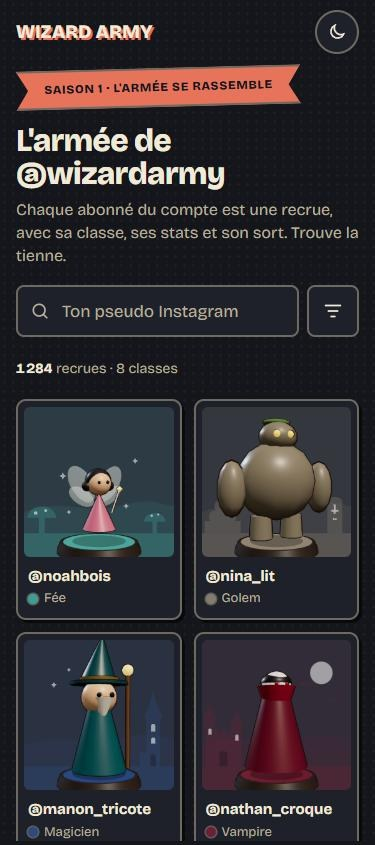
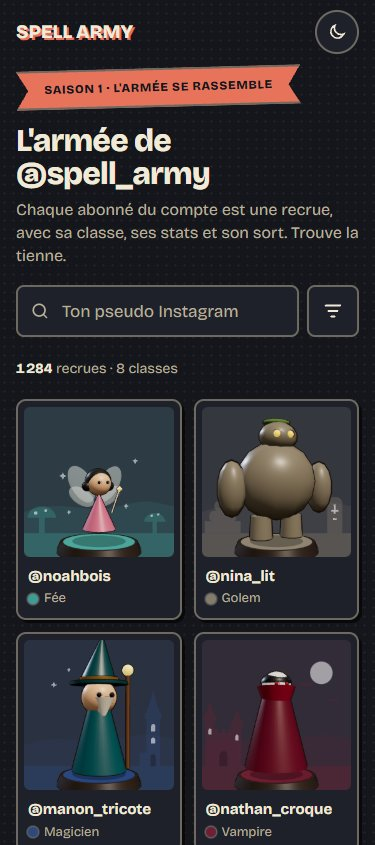
docs(renommage): nomme Spell Army dans la doc, les sources de vérité et les captures

diff --git a/docs/adr/0004-environnements-domaine-et-securite.md b/docs/adr/0004-environnements-domaine-et-securite.md
@@ -1,6 +1,6 @@
 # ADR 0004 — Environnements, domaine et sécurité
 
-- **Statut** : accepté le 2026-11-15. Précisé le 2026-11-22 : la ligne « Saisie » nomme `WIKI_DATABASE_URL`, secret de lecture du wiki (#43). Précisé le 2026-11-23 : domaine `spellarmy.com`.
+- **Statut** : accepté le 2026-11-15. Précisé le 2026-11-22 : la ligne « Saisie » nomme `WIKI_DATABASE_URL`, secret de lecture du wiki (#43). Précisé le 2026-11-23 : domaine `spellarmy.com`. Précisé le 2026-11-25 : team Vercel « Spell Army », slug `spell-army`, et projet Neon `spell-army-prod` (#57).
 - **Source** : `docs/etudes/00-cadrage.md` § 1 et § 2 « Architecture » ; étude
   `08-securite-cloudflare-vercel.md`
 
@@ -11,7 +11,7 @@
 | Sujet | Décision | Origine |
 |---|---|---|
 | Deux environnements publics | La pré-prod montre les personnages issus des abonnés du compte personnel du mainteneur et renvoie vers ce compte. La prod montre ceux du compte dédié. | Décidé (cadrage) |
-| Deux projets Vercel | Un même dépôt alimente deux projets de la team « Wizard Army » (Hobby). Chacun a son domaine de production public, ses variables, sa base Neon et ses tâches planifiées. Le projet de pré-prod suit `main`. Le projet de prod suit une branche `prod`, que le mainteneur avance pour livrer. | Accepté le 2026-11-15 |
+| Deux projets Vercel | Un même dépôt alimente deux projets de la team « Spell Army » (slug `spell-army`, Hobby). Chacun a son domaine de production public, ses variables, sa base Neon et ses tâches planifiées. Le projet de pré-prod suit `main`. Le projet de prod suit une branche `prod`, que le mainteneur avance pour livrer. | Accepté le 2026-11-15 |
 | Bandeau bêta | La pré-prod affiche un bandeau « bêta ». Il est piloté par une variable d'environnement, pas par du code propre à chaque environnement. | Décidé (cadrage) |
 
 Avec un seul projet et un domaine de branche, ce domaine aurait été protégé par défaut (il aurait fallu
@@ -49,7 +49,7 @@ Tous les leviers du plan gratuit sont activés (cadrage, Décidé) :
 | Authentification MCP | Jeton fixe en v1, pour le seul poste du mainteneur ; OAuth plus tard. Jeton aléatoire d'au moins 32 octets, comparé en temps constant, stocké en variable *Sensitive*, un par environnement. | Décidé (cadrage) |
 | Durcissement MCP | Validation Zod stricte, journal d'audit, pas de SQL libre, confirmation sur les outils destructeurs. | Accepté le 2026-11-15 |
 | Secrets | Tout ce qui est sensible (jetons, mots de passe, codes de récupération) vit dans KeePassXC, qui fait référence. Aucun secret dans le dépôt, une issue ou une conversation. En fin de projet, la base est sauvegardée sur un disque externe. | Décidé (cadrage) |
-| Saisie | Le mainteneur crée et saisit lui-même les secrets : `CRON_SECRET`, jeton MCP, clé HikerAPI et chaînes Neon dans les réglages Vercel ; `CRON_SECRET` aussi dans les secrets GitHub Actions (filet de l'ADR 0002) ; `WIKI_DATABASE_URL` dans les secrets GitHub Actions, chaîne du rôle `wiki_lecture`, en lecture sur la seule table `spells` de `wa-prod` (publication du wiki). | Accepté le 2026-11-15 |
+| Saisie | Le mainteneur crée et saisit lui-même les secrets : `CRON_SECRET`, jeton MCP, clé HikerAPI et chaînes Neon dans les réglages Vercel ; `CRON_SECRET` aussi dans les secrets GitHub Actions (filet de l'ADR 0002) ; `WIKI_DATABASE_URL` dans les secrets GitHub Actions, chaîne du rôle `wiki_lecture`, en lecture sur la seule table `spells` de `spell-army-prod` (publication du wiki). | Accepté le 2026-11-15 |
 | Récupération Neon | Neon ne fournit pas de codes de récupération : l'accès repose sur la sauvegarde de l'application d'authentification, qui est notée dans KeePassXC. | Accepté le 2026-11-15 |
 | Accès de Claude à Neon | Seule l'entrée MCP locale en lecture seule sert. Le connecteur Neon de Claude est en écriture et renvoie les chaînes de connexion : ses outils qui exposent ou créent un secret (chaîne de connexion, mot de passe, identifiant) ne sont jamais appelés. | Accepté le 2026-11-15 |
 

diff --git a/docs/exploitation.md b/docs/exploitation.md
@@ -101,7 +101,7 @@ avec Claude : chaque étape qui le touche se fait dans son propre terminal.
 
    ```bash
    read -rsp "Jeton MCP : " JETON_MCP; echo
-   claude mcp add --transport http wizard-army http://127.0.0.1:3000/api/mcp --header "Authorization: Bearer $JETON_MCP"
+   claude mcp add --transport http spell-army http://127.0.0.1:3000/api/mcp --header "Authorization: Bearer $JETON_MCP"
    unset JETON_MCP
    ```
 
@@ -120,9 +120,9 @@ avec Claude : chaque étape qui le touche se fait dans son propre terminal.
    `claude mcp add` les masque (`[REDACTED]`), `claude mcp list` ne les affiche pas. Ces règles
    ferment les lectures habituelles, pas un script qui ouvrirait le fichier.
 
-5. **Vérifier** par `claude mcp list`, qui doit montrer `wizard-army` connecté ; jamais par
+5. **Vérifier** par `claude mcp list`, qui doit montrer `spell-army` connecté ; jamais par
    `claude mcp get`, qui afficherait le jeton. Puis, dans une nouvelle session, en CLI ou dans
-   l'onglet Code de l'app de bureau, `/mcp` doit lister `wizard-army` connecté, avec ses outils :
+   l'onglet Code de l'app de bureau, `/mcp` doit lister `spell-army` connecté, avec ses outils :
    une session déjà ouverte ne voit pas un serveur ajouté après son démarrage. Si le serveur était
    éteint au démarrage de la session, « Reconnect » dans `/mcp` une fois le serveur lancé.
 
@@ -286,9 +286,9 @@ ou incomplet — les deux derniers nommés —, ou que le dossier n'est pas vide
 ### Publication
 
 Le workflow `.github/workflows/wiki.yml` régénère le wiki et le pousse sur
-`wizard-army-v2.wiki.git` : à chaque merge sur `main` qui touche une de ses sources
+`spell-army.wiki.git` : à chaque merge sur `main` qui touche une de ses sources
 (`.claude/pipeline.config.md`, « Documentation dérivée »), chaque nuit, et à la demande
-(`gh workflow run wiki.yml`). Il lit `wa-prod` par le secret Actions `WIKI_DATABASE_URL`, rôle
+(`gh workflow run wiki.yml`). Il lit `spell-army-prod` par le secret Actions `WIKI_DATABASE_URL`, rôle
 `wiki_lecture` (ADR 0004, « Saisie »), et pousse avec le jeton automatique du workflow. Rien n'est
 commité quand les pages n'ont pas changé. Une page modifiée à la main dans le wiki est écrasée à
 la publication suivante. GitHub désactive un workflow planifié dans un dépôt public resté 60 jours
@@ -302,7 +302,7 @@ Un run en échec :
 
 - clone refusé (« repository not found ») : le dépôt wiki n'existe qu'après une première page
   créée dans l'interface de GitHub ; la créer, puis relancer ;
-- table `spells` absente : appliquer les migrations à `wa-prod` (`migration`, chaîne du
+- table `spells` absente : appliquer les migrations à `spell-army-prod` (`migration`, chaîne du
   propriétaire dans le shell) ;
 - droit refusé : `GRANT SELECT ON public.spells TO wiki_lecture;`, en propriétaire ;
 - push refusé : le jeton automatique ne peut pas écrire le wiki ; le mainteneur crée un jeton fin

diff --git a/docs/etudes/04-architecture.md b/docs/etudes/04-architecture.md
@@ -1,4 +1,4 @@
-# 04 — Architecture cible de Wizard Army (matière d'ADR)
+# 04 — Architecture cible de Spell Army (matière d'ADR)
 
 Date : 2026-11-11. **[V]** = vérifié dans la doc en ligne ce jour ; **[S]** = supposé, à vérifier.
 
@@ -14,7 +14,7 @@ Date : 2026-11-11. **[V]** = vérifié dans la doc en ligne ce jour ; **[S]** = 
 
 Lus : `CLAUDE.md`, `.mcp.json`, ADR 0002, 0003, 0004, 0005, 0007, 0008, 0014, 0022, 0027 (et la liste des 29), `infra/`, workflows.
 
-| Existant [V] | Pour Wizard Army |
+| Existant [V] | Pour Spell Army |
 |---|---|
 | Cloudflare : registrar de `pacome.dev`, DNS, R2 (bucket `backups`), Tunnel/Access/WAF | **Repris** : DNS seul et R2. **Laissé** : Tunnel, Access, proxy. |
 | Sentry SaaS Developer, organisation UE, erreurs seules, sans données personnelles (ADR 0027) | **Repris** (nouveau projet ; création effective de l'organisation à confirmer). |
@@ -35,7 +35,7 @@ Le Portfolio ne contient **aucune trace de Vercel, Neon ni Supabase** ; son MCP 
 |---|---|---|---|
 | Framework | **Next.js 16.x** (Context7 liste 16.4.x [V]) ; modale R3F en composant client chargé à la demande | Vite + API ; Astro | Un déploiement pour tout ; découvre Fluid compute, cache/ISR, previews. |
 | Structure | **pnpm workspaces** : `engine` (TS pur, seedé), `db` (schéma Drizzle + services), `apps/web`. Phase 2 : `apps/video` (Remotion) importe les types du journal depuis `engine`. | Dépôt simple ; + Turborepo | Le minimum anti-refonte : moteur et format du journal sont des paquets. Vercel gère pnpm et saute les builds inchangés [V]. Turborepo à l'arrivée de la 2ᵉ app. |
-| Base | **Neon, 2 projets : `wa-preprod`, `wa-prod`** | Supabase ; Postgres du VPS | §3 bis. Env vars par environnement, `DATABASE_URL` poolée + `_UNPOOLED` [V]. |
+| Base | **Neon, 2 projets : `spell-army-preprod`, `spell-army-prod`** | Supabase ; Postgres du VPS | §3 bis. Env vars par environnement, `DATABASE_URL` poolée + `_UNPOOLED` [V]. |
 | ORM | **Drizzle** | Prisma ; driver Neon nu | Léger, proche du SQL, sans moteur binaire [S]. |
 | MCP | **`mcp-handler` 2.x** dans `app/api/mcp/route.ts` [V], Streamable HTTP sans état | Projet séparé ; xmcp | Une route suffit à cette échelle. |
 | Auth MCP | **v1 : bearer** ; **v2 : OAuth** (WorkOS AuthKit ou Clerk, un seul utilisateur) | OAuth d'emblée | §3 ter. |
@@ -111,7 +111,7 @@ Vercel **déconseille** un reverse proxy devant ses déploiements [V] et fournit
           +-----------+-----------------------------------------+--------------------+
                       | DATABASE_URL (par environnement)        | API externe (étudiée ailleurs)
                       v
-       Neon : wa-prod | wa-preprod
+       Neon : spell-army-prod | spell-army-preprod
  Sentry (erreurs) · healthchecks.io (fin de job) · GitHub Actions (CI, dump hebdo -> R2 chiffré)
  Phase 2 : apps/video (Remotion) lit le journal ; rendu Sandbox ou dédié ; sortie -> Blob
 ```

diff --git a/docs/adr/0001-architecture-applicative.md b/docs/adr/0001-architecture-applicative.md
@@ -1,7 +1,8 @@
 # ADR 0001 — Architecture applicative : Next.js sur Vercel, MCP intégré, Neon, paquets par domaine
 
 - **Statut** : accepté le 2026-11-15. Précisé le 2026-11-21 : `packages/joueurs` dépend aussi de
-  `personnages` (§ « Paquets », issue #13).
+  `personnages` (§ « Paquets », issue #13). Précisé le 2026-11-25 : projets Neon `spell-army-preprod`
+  et `spell-army-prod`, renommés avec le jeu (#57).
 - **Source** : `docs/etudes/00-cadrage.md` § 2 « Architecture » ; étude `04-architecture.md`
 
 ## Contexte
@@ -18,7 +19,7 @@ possible, « pour y voir clair ».
 | Hébergement | Next.js (App Router) sur Vercel. Une même application porte le site, le serveur MCP et la route des tâches planifiées. Il y a un projet Vercel par environnement (ADR 0004). | Décidé (cadrage) |
 | Plan Vercel | Hobby tant qu'on n'est pas bloqué, puis Pro. Pro au plus tard au premier partenariat rémunéré, car Hobby est réservé à l'usage personnel et non commercial. | Décidé (cadrage) |
 | Back-office | Aucun. Un serveur MCP le remplace : il est servi par l'application à `/api/mcp` et piloté depuis Claude. | Décidé (cadrage) |
-| Base | Neon (Postgres), un projet par environnement (`wa-preprod`, `wa-prod`), accès par Drizzle. | Décidé (cadrage) |
+| Base | Neon (Postgres), un projet par environnement (`spell-army-preprod`, `spell-army-prod`), accès par Drizzle. | Décidé (cadrage) |
 | Région | Neon à Francfort (`aws-eu-central-1`). Les fonctions Vercel sont fixées en `fra1` par `"regions": ["fra1"]` dans `vercel.json`, au lieu de `iad1` par défaut. | Accepté le 2026-11-15 |
 | Découpage | Un monorepo pnpm avec un paquet par domaine, aux chemins de `.claude/pipeline.config.md` § « Périmètre » (détail ci-dessous). | Accepté le 2026-11-15 |
 | Services partagés | Chaque paquet de domaine expose ses services. Les outils MCP, la route des tâches et les pages les appellent ; il n'y a pas d'autre chemin d'écriture, ni de REST d'administration. Un outil MCP reste un adaptateur mince : validation Zod, journal d'audit, appel d'un service. | Accepté le 2026-11-15 |
@@ -45,8 +46,8 @@ cycle n'est permis. Le paquet d'affichage 3D, commun au site et à la vidéo, n'
   résultat est le même.
 - Pour quitter Vercel, on réécrit `apps/web` et la planification ; les paquets ne bougent pas.
 - Chez Neon, la région ne se change pas après création. Le projet vide `my-first-project`, créé
-  d'office à Francfort en Postgres 18, est renommé `wa-preprod`, et `wa-prod` est créé dans la même
-  région. Le mainteneur le fait dans la console Neon.
+  d'office à Francfort en Postgres 18, est renommé `spell-army-preprod`, et `spell-army-prod` est
+  créé dans la même région. Le mainteneur le fait dans la console Neon.
 - Sur Hobby, une seule région de fonctions est permise : ce sera `fra1`.
 
 ## Vérifié

diff --git a/.claude/pipeline.config.md b/.claude/pipeline.config.md
@@ -1,7 +1,7 @@
 # Configuration pipeline
 
 ## Dépôt GitHub
-- repo : `plecart/wizard-army-v2`
+- repo : `plecart/spell-army`
 - branche trunk : `main`
 
 ## Sources de vérité
@@ -31,7 +31,7 @@ un écart entre elle et une source n'est jamais une contradiction `decisions-vs-
 
 | Documentation | Sources | Commande | Publication |
 |---|---|---|---|
-| wiki GitHub (`wizard-army-v2.wiki.git`) : accueil, classes, sorts tirables, combat | `docs/etudes/00-cadrage.md` § 1 ; `docs/game-design.md` § 2 et § 4 ; classes et plages (`packages/personnages/src/`) ; libellés des classes (`apps/web/app/annuaire/address.ts`) ; modèle et validation des sorts (`packages/combat/src/`, `apps/web/app/mcp/spell-vocabulary.ts`) ; générateur (`apps/web/scripts/wiki.ts`, `apps/web/scripts/wiki/`) ; schéma et lecture de la table `spells` (`packages/donnees/src/`) ; table `spells` de `wa-prod` | `wiki` | `.github/workflows/wiki.yml` : merge sur `main` qui touche une source du dépôt, chaque nuit (pour la table `spells`), à la demande |
+| wiki GitHub (`spell-army.wiki.git`) : accueil, classes, sorts tirables, combat | `docs/etudes/00-cadrage.md` § 1 ; `docs/game-design.md` § 2 et § 4 ; classes et plages (`packages/personnages/src/`) ; libellés des classes (`apps/web/app/annuaire/address.ts`) ; modèle et validation des sorts (`packages/combat/src/`, `apps/web/app/mcp/spell-vocabulary.ts`) ; générateur (`apps/web/scripts/wiki.ts`, `apps/web/scripts/wiki/`) ; schéma et lecture de la table `spells` (`packages/donnees/src/`) ; table `spells` de `spell-army-prod` | `wiki` | `.github/workflows/wiki.yml` : merge sur `main` qui touche une source du dépôt, chaque nuit (pour la table `spells`), à la demande |
 
 ## Stack
 - langages : TypeScript

diff --git a/docs/direction-artistique.md b/docs/direction-artistique.md
@@ -1,6 +1,6 @@
-# Wizard Army — Direction artistique
+# Spell Army — Direction artistique
 
-État au 2026-11-22. Ce document détaille la section « Modèles 3D » du [cadrage](etudes/00-cadrage.md)
+État au 2026-11-25. Ce document détaille la section « Modèles 3D » du [cadrage](etudes/00-cadrage.md)
 et l'organisation du site. Le cadrage fait foi en cas de désaccord (rang 1 des sources de vérité).
 Il a été arrêté avec le mainteneur sur des prototypes jetables, hors dépôt ; les captures du § 10 en
 gardent la trace.
@@ -184,7 +184,9 @@ au site et à la vidéo.
 ## 10. Captures des prototypes
 
 Captures du 2026-11-16, au format téléphone. Le magicien des vignettes est un ancien brouillon ; le
-dernier est celui de la page des modèles.
+dernier est celui de la page des modèles. Les cinq qui montraient l'ancien nom du jeu ont été
+refaites le 2026-11-25 sur les mêmes prototypes, au nom de Spell Army (#57) ; « Parties et ancres »
+ne le montrait pas.
 
 | Annuaire, clair | Annuaire, sombre |
 |---|---|

diff --git a/README.md b/README.md
@@ -1,6 +1,6 @@
-# Wizard Army
+# Spell Army
 
-Le code source de Wizard Army, un jeu qui se joue en suivant un compte Instagram : chaque abonné
+Le code source de Spell Army, un jeu qui se joue en suivant un compte Instagram : chaque abonné
 devient un personnage, et tous ensemble forment une armée qui affronte un monstre par jour.
 
 Le jeu est en cours de développement et pas encore en ligne. C'est un projet de loisir, qui me
@@ -40,8 +40,8 @@ Les règles complètes sont dans le [game design](docs/game-design.md), l'appare
 - **En cours** : le bestiaire, la saison, puis la mise en ligne d'une bêta.
 - **Plus tard** : la vidéo de chaque combat.
 
-Le découpage vit dans les [issues](https://github.com/plecart/wizard-army-v2/issues) et les
-[milestones](https://github.com/plecart/wizard-army-v2/milestones).
+Le découpage vit dans les [issues](https://github.com/plecart/spell-army/issues) et les
+[milestones](https://github.com/plecart/spell-army/milestones).
 
 ## Architecture
 

diff --git a/CLAUDE.md b/CLAUDE.md
@@ -89,7 +89,7 @@ OPEN rattachées à ce skill et en appliquer les enseignements au travail en cou
 fichier du skill n'a pas encore été mis à jour. Un sous-agent ne lit pas le journal : la session qui
 le lance met dans son brief les entrées OPEN qui touchent son bloc.
 
-**Emplacement du journal, à ne pas laisser deviner :** `~/.claude/projects/E--Projets-Wizard-Army-v2/skill-observations/log.md`. C'est un
+**Emplacement du journal, à ne pas laisser deviner :** `~/.claude/projects/E--Projets-Spell-Army/skill-observations/log.md`. C'est un
 chemin **stable**, hors du dépôt. Ne jamais l'ancrer sur le répertoire courant : `pr-paralleles`
 travaille dans des **git worktrees** éphémères, et un journal écrit là disparaît avec le worktree.
 

diff --git a/docs/etudes/05-game-design.md b/docs/etudes/05-game-design.md
@@ -1,4 +1,4 @@
-# Étude 05 — Système de jeu de Wizard Army
+# Étude 05 — Système de jeu de Spell Army
 
 > Étude préliminaire du 2026-11-11. Chiffres issus d'un calcul et d'une simulation Monte Carlo jetable
 > (8 000 à 30 000 combats par point) : des ordres de grandeur pour calibrer, pas des valeurs figées.
@@ -74,7 +74,7 @@ meilleurs.
 
 ### 2.3 Dérivation depuis le seed
 
-h = SHA-256(`wizard-army:v1:` + identifiant en minuscules, sans `@`), préfixe immuable. Chaque dé
+h = SHA-256(`spell-army:v1:` + identifiant en minuscules, sans `@`), préfixe immuable. Chaque dé
 est un hachage dérivé, `de(h, rôle, i)`, jamais le générateur aléatoire du langage, dont la suite
 n'est pas garantie d'une version à l'autre.
 

diff --git a/docs/etudes/00-cadrage.md b/docs/etudes/00-cadrage.md
@@ -1,6 +1,6 @@
-# Wizard Army — Cadrage
+# Spell Army — Cadrage
 
-État au 2026-11-24. Ce document rassemble ce qui a été décidé en conversation. Les ADR (`docs/adr/`),
+État au 2026-11-25. Ce document rassemble ce qui a été décidé en conversation. Les ADR (`docs/adr/`),
 le [game design](../game-design.md) et la [direction artistique](../direction-artistique.md) en détaillent des parties ; il sert de source au PRD.
 
 Trois statuts, à ne pas confondre :

diff --git a/docs/game-design.md b/docs/game-design.md
@@ -1,6 +1,6 @@
-# Wizard Army — Game design
+# Spell Army — Game design
 
-État au 2026-11-22. Ce document détaille la section « Combat et calibrage » du
+État au 2026-11-25. Ce document détaille la section « Combat et calibrage » du
 [cadrage](etudes/00-cadrage.md), qui fait foi en cas de désaccord (rang 1 des sources de vérité). Il
 remplace l'[étude 05](etudes/05-game-design.md), non retenue.
 
